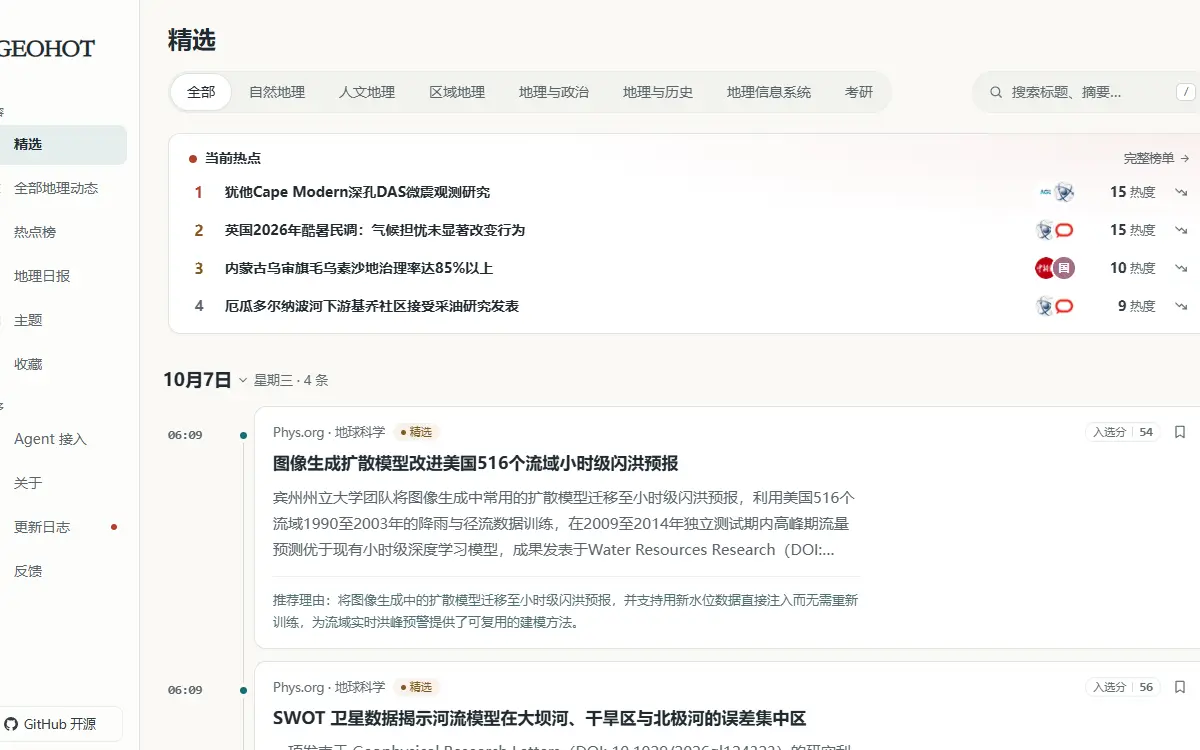
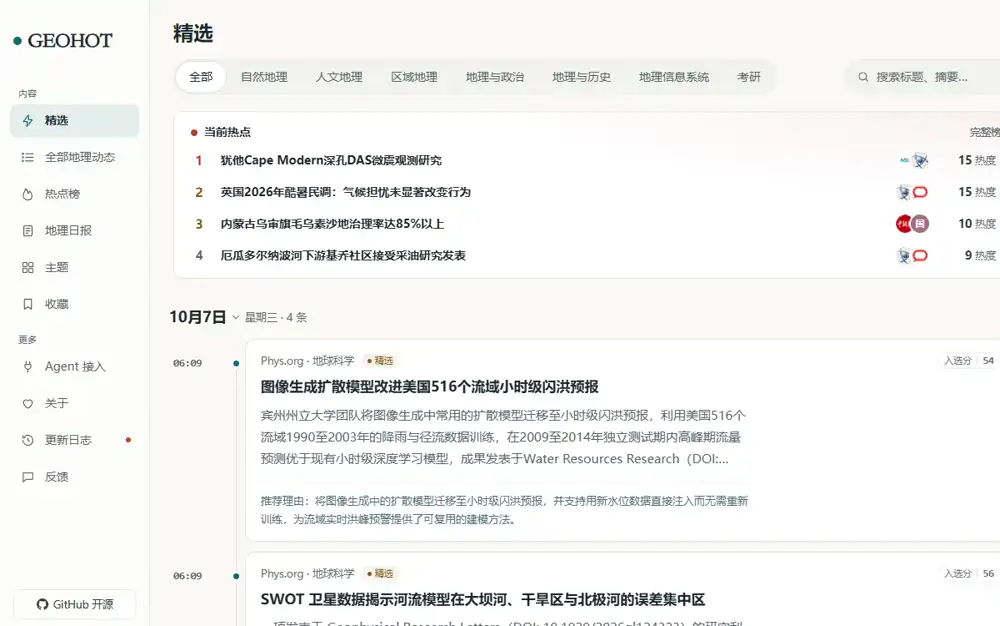
perf: 页面图片统一 webp 并去掉未引用的重复文件；og:image:alt 改指分享卡

diff --git a/en/index.html b/en/index.html
@@ -15,8 +15,8 @@
 <meta property="og:description" content="I haven't written code that changed the world yet. But AI and I made my first website.">
 <meta property="og:type" content="profile">
 <meta property="og:url" content="https://xxc2007.me/en/">
-<meta property="og:image" content="https://xxc2007.me/assets/images/avatar.jpg">
-<meta property="og:image:alt" content="Portrait of Xiong Xinchen">
+<meta property="og:image" content="https://xxc2007.me/assets/images/og-card.png">
+<meta property="og:image:alt" content="Share card for the introduction site of Xiong Xinchen">
 <meta property="og:site_name" content="Introduction of XinChen Xiong">
 <meta property="og:locale" content="en_US">
 <meta property="og:locale:alternate" content="zh_CN">
@@ -43,7 +43,7 @@
   "name": "Xiong Xinchen",
   "url": "https://xxc2007.me/",
   "email": "xxc200707@gmail.com",
-  "image": "https://xxc2007.me/assets/images/avatar.jpg",
+  "image": "https://xxc2007.me/assets/images/avatar.webp",
   "address": { "@type": "PostalAddress", "addressCountry": "China" },
   "sameAs": [
     "https://xxc2007.me/",
@@ -100,7 +100,7 @@
   <!-- ============ Hero ============ -->
   <section class="hero" id="top">
     <canvas id="field" role="img" aria-label="Decorative field of pale paper flecks drifting behind the text; it carries no information"></canvas>
-    <div class="avatar"><img src="../assets/images/avatar.jpg" alt="Portrait of Xiong Xinchen" width="300" height="300"></div>
+    <div class="avatar"><img src="../assets/images/avatar.webp" alt="Portrait of Xiong Xinchen" width="300" height="300"></div>
     <h1>Xiong Xinchen</h1>
     <p class="motto">I haven't written code that changed the world yet.</p>
     <p class="hero-sub">But with AI I made my first website — it puts my old school into a page you can go back to at any time.</p>

diff --git a/index.html b/index.html
@@ -15,8 +15,8 @@
 <meta property="og:description" content="我还没写出改变世界的代码。但我和 AI 做出了自己的第一个网站。">
 <meta property="og:type" content="profile">
 <meta property="og:url" content="https://xxc2007.me/">
-<meta property="og:image" content="https://xxc2007.me/assets/images/avatar.jpg">
-<meta property="og:image:alt" content="熊鑫晨的头像">
+<meta property="og:image" content="https://xxc2007.me/assets/images/og-card.png">
+<meta property="og:image:alt" content="熊鑫晨个人介绍站的分享卡：姓名、一句话与 xxc2007.me">
 <meta property="og:site_name" content="Introduction of XinChen Xiong">
 <meta property="og:locale" content="zh_CN">
 <meta property="og:locale:alternate" content="en_US">
@@ -43,7 +43,7 @@
   "alternateName": "Xiong Xinchen",
   "url": "https://xxc2007.me/",
   "email": "xxc200707@gmail.com",
-  "image": "https://xxc2007.me/assets/images/avatar.jpg",
+  "image": "https://xxc2007.me/assets/images/avatar.webp",
   "address": { "@type": "PostalAddress", "addressCountry": "China" },
   "sameAs": [
     "https://xxc2007.me/",
@@ -100,7 +100,7 @@
   <!-- ============ 首屏 ============ -->
   <section class="hero" id="top">
     <canvas id="field" role="img" aria-label="装饰用的一片浅色纸屑，在文字后面缓慢飘动，不承载任何信息"></canvas>
-    <div class="avatar"><img src="./assets/images/avatar.jpg" alt="熊鑫晨的头像" width="300" height="300"></div>
+    <div class="avatar"><img src="./assets/images/avatar.webp" alt="熊鑫晨的头像" width="300" height="300"></div>
     <h1>熊鑫晨</h1>
     <p class="motto">我还没写出改变世界的代码。</p>
     <p class="hero-sub">但我和 AI 做出了自己的第一个网站——把母校装进一个可以随时回去的网页。</p>

diff --git a/assets/images/README.md b/assets/images/README.md
@@ -1,0 +1,88 @@
+# assets/images 资产清单
+
+生成时间：2026-10-07。所有尺寸/字节数均为实测值（`ls -la` + `ffprobe`）。
+
+## 一览
+
+| 文件 | 尺寸 | 字节 | 来源 | 用在哪 |
+| --- | --- | --- | --- | --- |
+| `avatar.jpg` | 300×300 | 9,814 | 站长本人提供的原图（见 `docs/build-contract.md` §0） | 首屏圆形头像、JSON-LD `image` |
+| `avatar.webp` | 300×300 | 5,282 | 同上的 WebP 转码 | 头像备用格式 |
+| `shot-nc15.jpg` | 1200×750 | 23,411 | **线上站点实拍**：`https://xxc2007.me/` 首屏 | 作品卡一（`<img>` 当前引用的是 `.webp`） |
+| `shot-nc15.webp` | 1200×750 | 28,624 | 同一次实拍的 WebP 编码（quality 72） | 作品卡一（HTML 实际引用） |
+| `shot-geohot.jpg` | 1200×750 | 23,351 | **线上站点实拍**：`https://xxc2007.me/geohot/` 首页 | 作品卡二备用格式 |
+| `shot-geohot.webp` | 1200×750 | 51,266 | 同一次实拍的 WebP 编码（quality 72） | 作品卡二（HTML 实际引用） |
+| `og-card.svg` | 1200×630 | 1,663 | 手写 SVG（无 `@import`、无外链字体、无 `--`） | 分享卡源文件 |
+| `og-card.png` | 1200×630 | 74,866 | 由 `og-card.svg` 在 Chrome 里 1:1 栅格化 | `og:image` / Twitter 卡 |
+| `favicon.svg` | 24×24 viewBox | 278 | 手写 SVG | `<link rel="icon" type="image/svg+xml">` |
+| `favicon-32.png` | 32×32 | 1,365 | 由 `favicon.svg` 在 Chrome 里栅格化 | `<link rel="icon" sizes="32x32">` |
+| `banner.svg` | 1200×400 | 1,803 | 手写 SVG（无 `--`、无外链字体） | GitHub 仓库横幅 |
+
+## 截图来源与取证（两张 shot）
+
+- 拍摄方式：**真实浏览器渲染**，Playwright 1.63 驱动本机 Chrome（`C:/Program Files/Google/Chrome/Application/chrome.exe`），
+  `viewport 1280×800`、`deviceScaleFactor 1`、`waitUntil networkidle` 后再等 5 s，让入场动画与数字滚动跑完，然后截图。
+- 本机 DNS 把 `xxc2007.me` 解析到代理假 IP `198.18.0.104`（DoH 查到的真实记录是 Cloudflare `104.21.25.57` / `172.67.223.3`），
+  但 HTTPS 请求确实打到了线上：响应头 `Server: cloudflare`、`Last-Modified: Wed, 23 Sep 2026 04:53:07 GMT`、`CF-RAY: a469197d2a9b8ec0-NRT`。
+  **两张图都取自线上站点，未使用本地副本兜底**；`D:\nanchang15-website\site\index.html` 与线上首页逐字节相同（`cmp` 通过），可作交叉印证。
+  GEOHOT 本地没有检出，只有线上版本，因此更不存在兜底替换。
+- 裁切：1280×800 → 1200×750 用**裁**不用压。纪念册取 `x=40`（保住右上角语言胶囊，实测内容横向范围 61–1204）；
+  GEOHOT 取 `x=0`（保住左上角 `• GEOHOT` 字标，代价是右下角搜索框被切掉 50 px）。
+- JPEG 压到 24 KB 以内的取舍：这两页背景有细噪点（实测平坦区相邻像素平均绝对差 3.9），
+  ffmpeg 自带 mjpeg 编码器即使开到最差 `-q:v 31` + `yuvj420p`，GEOHOT 仍是 27,948 B，进不了预算。
+  最终用 libjpeg（Pillow 12.3）`optimize + progressive + 4:2:0`，并对截图做 0.35 px 高斯预处理消噪，
+  取"仍 ≤ 24,000 B 的最高质量"：纪念册 quality 17 → 23,411 B；GEOHOT quality 11 → 23,351 B。
+  文字在卡片实际显示宽度（约 600–700 px）下仍清晰可读；`.webp`（quality 72、不做模糊）是首选格式，`.jpg` 是兜底。
+
+## 重新生成命令
+
+`$FF` = `/c/Users/理想与现实/.workbuddy-ai/binaries/ffmpeg/bin`，`$CHROME` = `/c/Program Files/Google/Chrome/Application/chrome.exe`，
+`$PY` = `/c/Users/理想与现实/AppData/Local/Programs/Python/Python312/python.exe`。中间产物一律写在仓库外（`D:/tmp/resume-site/shots`）。
+
+```sh
+# 1) 实拍：1280×800 PNG 母图（脚本见下文 shot.cjs，Playwright + 本机 Chrome）
+node shot.cjs                       # -> cap-nc15.png / cap-geohot.png（1280×800）
+
+# 2) 裁成 1200×750（裁，不缩）
+"$FF/ffmpeg" -y -i cap-nc15.png  -vf "crop=1200:750:40:0" crop-nc15.png
+"$FF/ffmpeg" -y -i cap-geohot.png -vf "crop=1200:750:0:0"  crop-geohot.png
+
+# 3) WebP（quality 72，HTML 实际引用的格式）
+"$FF/ffmpeg" -y -i crop-nc15.png   -c:v libwebp -quality 72 shot-nc15.webp
+"$FF/ffmpeg" -y -i crop-geohot.png -c:v libwebp -quality 72 shot-geohot.webp
+
+# 4) JPEG：0.35px 消噪后取"≤24000 B 的最高质量"（quality 从 50 往下试，命中即停）
+"$PY" -c "
+import os
+from PIL import Image, ImageFilter
+for name, q in (('nc15', 17), ('geohot', 11)):
+    im = Image.open('crop-%s.png' % name).convert('RGB').filter(ImageFilter.GaussianBlur(0.35))
+    im.save('shot-%s.jpg' % name, quality=q, optimize=True, progressive=True, subsampling='4:2:0')
+"
+
+# 5) og-card / favicon：SVG 手写后，用 Chrome 1:1 栅格化（窗口尺寸 = 目标像素尺寸）
+"$CHROME" --headless=new --disable-gpu --hide-scrollbars --force-device-scale-factor=1 \
+  --window-size=1200,630 --screenshot="D:\\tmp\\resume-site\\shots\\raw-og.png" \
+  "file:///D:/tmp/resume-site/shots/r-og-card.svg"
+"$FF/ffmpeg" -y -i raw-og.png -update 1 og-card.png
+"$CHROME" --headless=new --disable-gpu --hide-scrollbars --force-device-scale-factor=1 \
+  --window-size=32,32 --screenshot="D:\\tmp\\resume-site\\shots\\raw-fav32.png" \
+  "file:///D:/tmp/resume-site/shots/r-favicon32.html"   # 该 html 只是 <img src=favicon.svg width=32 height=32>
+"$FF/ffmpeg" -y -i raw-fav32.png -update 1 favicon-32.png
+
+# 6) 校验：尺寸/像素格式 + SVG 是否合法 XML、有没有 -- 与外链字体
+"$FF/ffprobe" -v error -select_streams v:0 -show_entries stream=width,height,pix_fmt -of csv=p=0 og-card.png
+node svgcheck.mjs og-card.svg banner.svg favicon.svg    # 标签闭合 + 引号 + 禁 -- / @import / 外链字体
+"$CHROME" --headless=new --window-size=1200,400 --screenshot=banner.png "file:///D:/tmp/resume-site/shots/r-banner.svg"
+```
+
+`shot.cjs`（实拍）与 `svgcheck.mjs`（SVG 体检）是过程脚本，按 `.gitignore` 的约定留在 `D:/tmp/resume-site/shots`，不入仓库。
+
+## 设计约束（三张手写 SVG 共同遵守）
+
+- 只允许 `docs/build-contract.md` §1 的令牌：`#F0EEE6` 米白底、`#FAF9F5` 纸白、`#1F1E1D` 墨、`#6E6A5E` 弱文、
+  `#D97757`/`#A8492A` 赤陶、`#E4DFD3` 发丝线；分层只靠 1 px 发丝线，无阴影、无渐变、圆角 ≤2 px。
+- 字体写死为通用衬线栈 `Georgia, 'Times New Roman', 'Songti SC', 'Noto Serif CJK SC', SimSun, serif`，
+  **不写 `@import`、不引 woff2、不引 CSS**——OG 抓取器和 GitHub 都不执行外部资源，文字必须是真 `<text>`（可选中、可被读屏）。
+- 注释里不出现 `--`（GitHub 的 SVG 解析器会直接拒绝整张图），因此三张图一律不写 XML 注释。
+- 等高线母题与站内 `svg.contours` 同源：`#E4DFD3` 细线一组，只放**一条**赤陶 `#D97757` 作为唯一强调。
